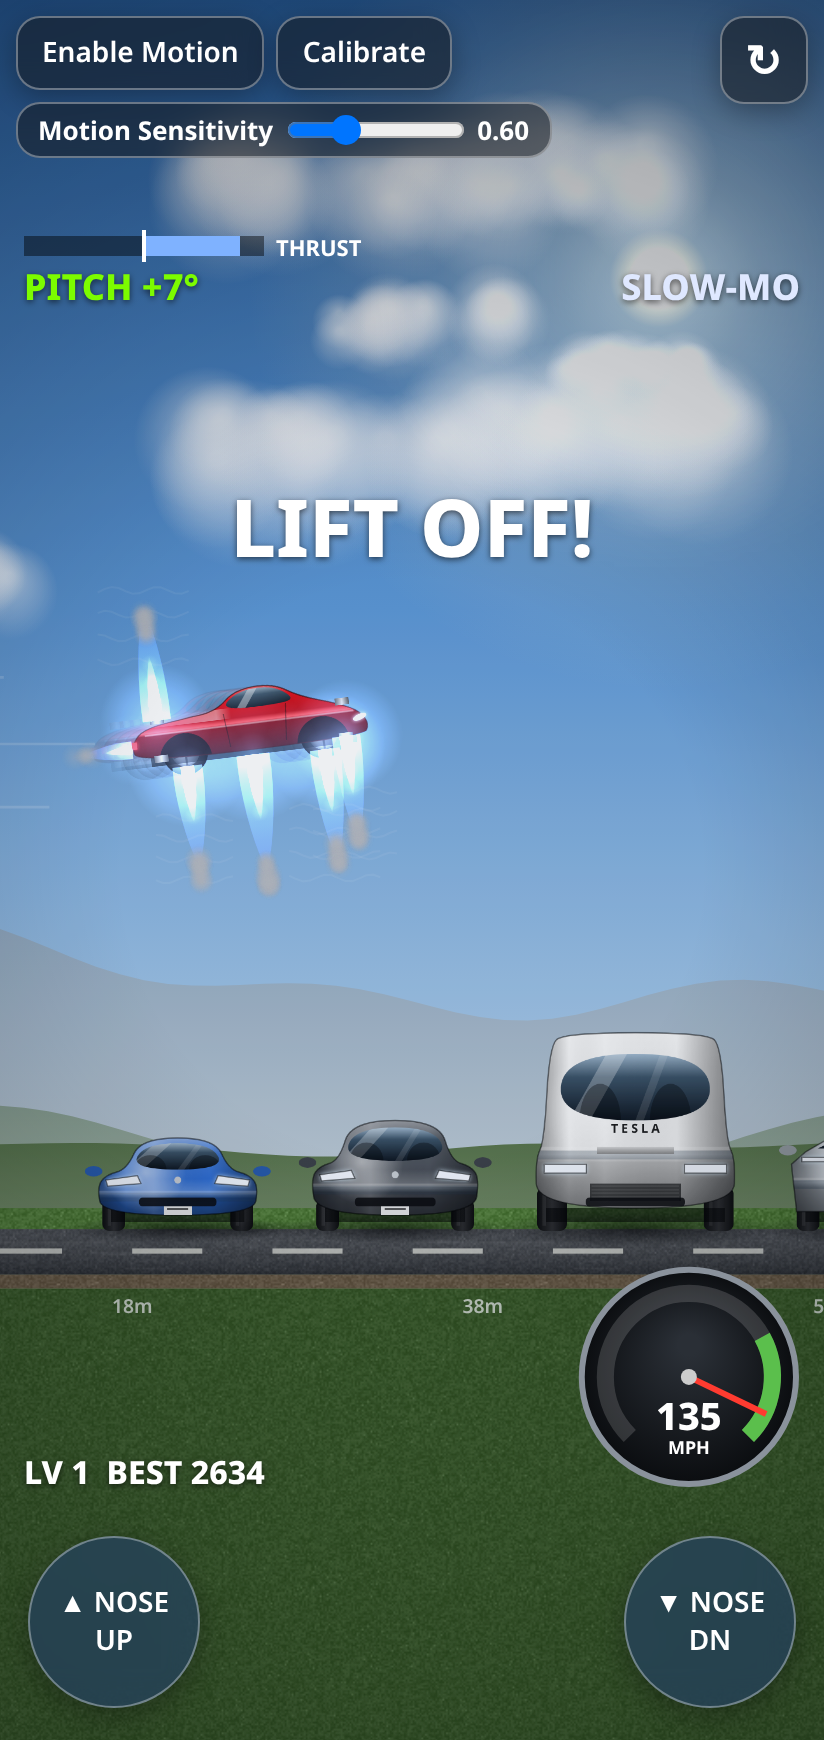
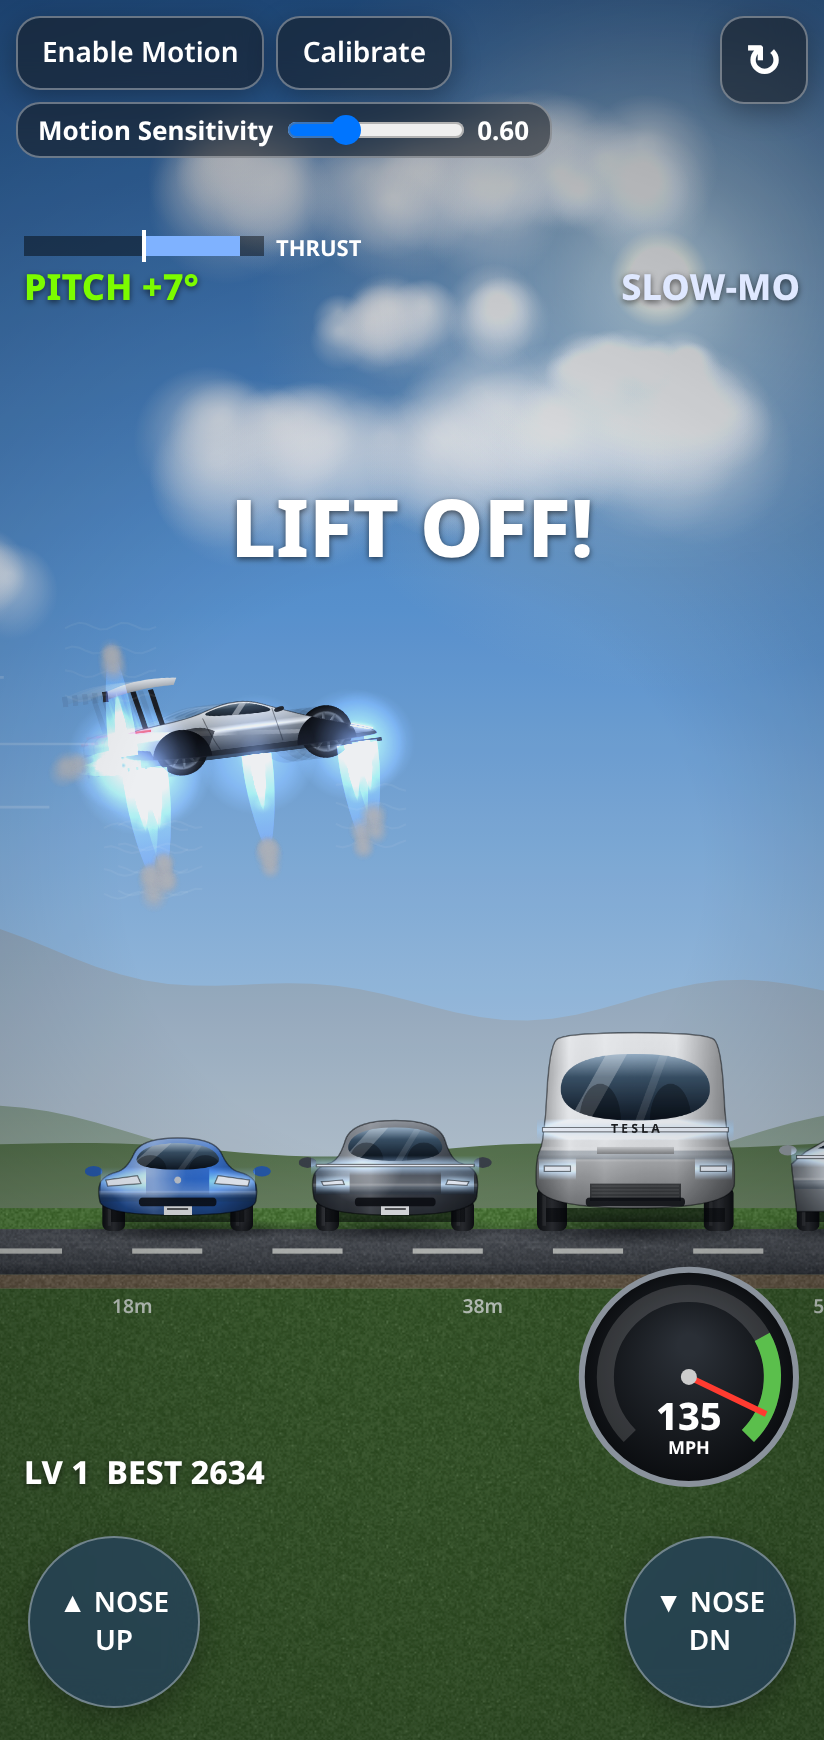
New Roadster look (silver wedge, rear wing, diffuser thrusters), fleet light bars

diff --git a/index.html b/index.html
@@ -275,15 +275,16 @@ function vehSprite(v){const key='v'+v.k;if(SPR[key])return SPR[key];
   // mirrors
   if(k!=='semi'){for(const s of [-1,1]){g.fillStyle=shade(col,-0.2);g.beginPath();g.ellipse(s<0?-2:w+2,glass[0][1]+1,5,3,0,0,7);g.fill();}}
   // headlights with glow
-  const lamp=(pts)=>{g.save();g.shadowColor='rgba(220,240,255,.95)';g.shadowBlur=8;g.fillStyle='#f4f8ff';g.beginPath();pts.forEach((p,i)=>i?g.lineTo(p[0],p[1]):g.moveTo(p[0],p[1]));g.closePath();g.fill();g.restore();
+  const lamp=(pts)=>{const xs=pts.map(p=>p[0]),ys=pts.map(p=>p[1]),x0=Math.min(...xs),x1=Math.max(...xs),y0=Math.min(...ys),y1=Math.max(...ys);g.save();g.globalCompositeOperation='lighter';const hg=g.createLinearGradient(0,y0-5,0,y1+5);hg.addColorStop(0,'rgba(150,200,255,0)');hg.addColorStop(.5,'rgba(170,215,255,.55)');hg.addColorStop(1,'rgba(150,200,255,0)');g.fillStyle=hg;g.fillRect(x0-3,y0-5,x1-x0+6,y1-y0+10);g.restore();g.save();g.shadowColor='rgba(210,235,255,1)';g.shadowBlur=12;g.fillStyle='#f4f8ff';g.beginPath();pts.forEach((p,i)=>i?g.lineTo(p[0],p[1]):g.moveTo(p[0],p[1]));g.closePath();g.fill();g.restore();
     g.strokeStyle='rgba(0,0,0,.5)';g.lineWidth=0.7;g.stroke();};
-  if(k==='cyber'){lamp([[6,-41],[w-6,-41],[w-6,-38.5],[6,-38.5]]);g.fillStyle='rgba(0,0,0,.35)';g.fillRect(m-12,-22,24,2);}
-  else if(k==='cab'){lamp([[10,-30],[w-10,-30],[w-10,-28],[10,-28]]);g.fillStyle='rgba(0,0,0,.4)';g.fillRect(m-0.5,-h+8,1,h-40);}
-  else if(k==='semi'){lamp([[7,-37],[31,-37],[31,-32],[7,-32]]);lamp([[w-31,-37],[w-7,-37],[w-7,-32],[w-31,-32]]);
+  if(k==='cyber'){lamp([[3,-42],[w-3,-42],[w-3,-40.3],[3,-40.3]]);g.fillStyle='rgba(0,0,0,.35)';g.fillRect(m-12,-22,24,2);}
+  else if(k==='cab'){lamp([[4,-33],[w-4,-33],[w-4,-31],[4,-31]]);g.fillStyle='rgba(0,0,0,.4)';g.fillRect(m-0.5,-h+8,1,h-40);}
+  else if(k==='semi'){lamp([[6,-58],[w-6,-58],[w-6,-55.5],[6,-55.5]]);lamp([[7,-36],[22,-36],[22,-33],[7,-33]]);lamp([[w-22,-36],[w-7,-36],[w-7,-33],[w-22,-33]]);
     const bg=g.createLinearGradient(0,-48,0,-42);bg.addColorStop(0,'#eee');bg.addColorStop(1,'#777');g.fillStyle=bg;g.fillRect(m-22,-47,44,4);
     g.fillStyle='#1b1b1b';g.font='700 7px system-ui';g.textAlign='center';g.fillText('T E S L A',m,-55);
     g.fillStyle='rgba(0,0,0,.6)';g.fillRect(m-26,-26,52,10);for(let i=0;i<5;i++){g.fillStyle='rgba(255,255,255,.08)';g.fillRect(m-25,-25+i*2,50,1);}}
-  else {const y=k==='my'?-31:-28;lamp([[5,y],[23,y-2.5],[25,y+2],[6,y+3.5]]);lamp([[w-5,y],[w-23,y-2.5],[w-25,y+2],[w-6,y+3.5]]);
+  else if(k==='my'){lamp([[3,-37],[w-3,-37],[w-3,-35.6],[3,-35.6]]);lamp([[6,-27],[18,-28],[19,-25.5],[7,-25]]);lamp([[w-6,-27],[w-18,-28],[w-19,-25.5],[w-7,-25]]);}
+  else {const y=-28;lamp([[5,y],[23,y-2.5],[25,y+2],[6,y+3.5]]);lamp([[w-5,y],[w-23,y-2.5],[w-25,y+2],[w-6,y+3.5]]);
     g.fillStyle='#c9ced4';g.beginPath();g.arc(m,y,2,0,7);g.fill();}
   // lower intake & plate
   g.fillStyle='rgba(8,8,10,.85)';g.beginPath();g.roundRect(m-w*0.24,-18,w*0.48,5,2);g.fill();
@@ -299,42 +300,64 @@ function drawVehicle(v){
   cx.restore();
 }
 // ----- Roadster side view (cached) -----
-function roadsterSprite(){if(SPR.rd)return SPR.rd;const PAD=20,Wd=140,Hd=56,c=mk((Wd+PAD*2)*RS,(Hd+PAD*2)*RS),g=c.getContext('2d');g.scale(RS,RS);g.translate(PAD+70,Hd+PAD-6);
-  const body=[[-66,-9],[-68,-20],[-60,-28],[-38,-31],[-18,-33],[-6,-44],[16,-45],[30,-36],[52,-29],[64,-23],[68,-15],[64,-9]];
-  // shadow under body
-  g.fillStyle='rgba(0,0,0,.6)';g.fillRect(-58,-12,118,6);
+function roadsterSprite(){if(SPR.rd)return SPR.rd;const PAD=24,Wd=150,Hd=70,c=mk((Wd+PAD*2)*RS,(Hd+PAD*2)*RS),g=c.getContext('2d');g.scale(RS,RS);g.translate(PAD+75,Hd+PAD-8);
+  // rear wing struts + wing (behind body)
+  g.fillStyle='#1a1c20';for(const x of [-60,-50]){g.beginPath();g.moveTo(x,-26);g.lineTo(x+3,-26);g.lineTo(x-2,-50);g.lineTo(x-5,-50);g.fill();}
+  const wg=g.createLinearGradient(0,-56,0,-47);wg.addColorStop(0,'#f2f4f6');wg.addColorStop(.5,'#b9bec4');wg.addColorStop(1,'#5d6268');
+  g.fillStyle=wg;g.beginPath();g.moveTo(-80,-51);g.quadraticCurveTo(-62,-58,-38,-55);g.lineTo(-40,-51);g.quadraticCurveTo(-60,-52,-79,-47);g.closePath();g.fill();
+  g.fillStyle='#2a2d33';g.fillRect(-81,-52,3,6);
+  // body: low wedge, rear at left
+  const body=[[-72,-8],[-73,-20],[-70,-27],[-52,-29],[-32,-31],[-14,-37],[2,-37],[16,-31],[34,-24],[56,-17],[71,-12],[72,-8]];
+  g.fillStyle='rgba(0,0,0,.6)';g.fillRect(-64,-12,128,6);
   smooth(g,body,1);g.save();g.clip();
-  const vg=g.createLinearGradient(0,-46,0,-6);vg.addColorStop(0,'#ff8a8f');vg.addColorStop(.18,'#e3141f');vg.addColorStop(.45,'#b80d16');vg.addColorStop(.52,'#f25058');vg.addColorStop(.56,'#7a0810');vg.addColorStop(1,'#2a0205');
-  g.fillStyle=vg;g.fillRect(-80,-50,160,50);
-  const sp=g.createLinearGradient(-60,0,60,0);sp.addColorStop(0,'rgba(255,255,255,0)');sp.addColorStop(.35,'rgba(255,255,255,.45)');sp.addColorStop(.42,'rgba(255,255,255,0)');sp.addColorStop(1,'rgba(255,255,255,0)');
-  g.fillStyle=sp;g.fillRect(-80,-34,160,6);
-  g.fillStyle='rgba(255,255,255,.35)';g.fillRect(-60,-24.5,120,1);
+  const vg=g.createLinearGradient(0,-38,0,-6);vg.addColorStop(0,'#ffffff');vg.addColorStop(.2,'#d9dde1');vg.addColorStop(.42,'#a9afb6');vg.addColorStop(.5,'#eef1f4');vg.addColorStop(.56,'#7d838a');vg.addColorStop(.8,'#3c4045');vg.addColorStop(1,'#16181b');
+  g.fillStyle=vg;g.fillRect(-80,-45,160,45);
+  // sky/env reflection streak along shoulder
+  const sp=g.createLinearGradient(-70,0,70,0);sp.addColorStop(0,'rgba(255,255,255,0)');sp.addColorStop(.3,'rgba(255,255,255,.7)');sp.addColorStop(.45,'rgba(255,255,255,0)');sp.addColorStop(.75,'rgba(255,255,255,.35)');sp.addColorStop(1,'rgba(255,255,255,0)');
+  g.fillStyle=sp;g.beginPath();g.moveTo(-70,-27);g.lineTo(70,-13);g.lineTo(70,-11);g.lineTo(-70,-24);g.fill();
+  // side intake sculpt behind door
+  g.fillStyle='rgba(20,22,26,.75)';g.beginPath();g.moveTo(-40,-24);g.quadraticCurveTo(-28,-27,-20,-22);g.lineTo(-24,-14);g.quadraticCurveTo(-34,-16,-42,-15);g.fill();
+  // dark lower sill
+  g.fillStyle='rgba(15,16,18,.85)';g.fillRect(-80,-11,160,6);
+  // rear diffuser (black) at tail bottom
+  g.fillStyle='#0d0e10';g.beginPath();g.moveTo(-74,-6);g.lineTo(-74,-18);g.lineTo(-58,-15);g.lineTo(-54,-6);g.fill();
   // wheel arches
-  g.fillStyle='rgba(0,0,0,.85)';g.beginPath();g.arc(-38,-8,15,Math.PI,0);g.arc(41,-8,15,Math.PI,0);g.fill();
+  g.fillStyle='#050506';g.beginPath();g.arc(-40,-8,17,Math.PI,0);g.arc(43,-8,17,Math.PI,0);g.fill();
   g.restore();
-  smooth(g,body,1);g.strokeStyle='rgba(40,0,0,.6)';g.lineWidth=0.7;g.stroke();
+  // thin red full-width rear light strip
+  g.save();g.shadowColor='#ff1a1a';g.shadowBlur=7;g.fillStyle='#ff2a2a';g.fillRect(-73.5,-24,4,1.6);g.fillRect(-70,-27.2,14,1.2);g.restore();
+  // diffuser nozzles (round, visible on rear face) — thruster origins
+  for(const y of [-9,-13.5]){const ng=g.createRadialGradient(-74,y,0.3,-74,y,2.6);ng.addColorStop(0,'#000');ng.addColorStop(.55,'#4a2a12');ng.addColorStop(.8,'#b8875a');ng.addColorStop(1,'#3a3a3a');g.fillStyle=ng;g.beginPath();g.ellipse(-74,y,1.6,2.4,0,0,7);g.fill();}
+  g.fillStyle='#1d1f22';for(let i=0;i<3;i++)g.fillRect(-72+i*5,-7,1.2,3); // diffuser fins
   // glass canopy
-  const gl=[[-16,-33],[-5,-43],[15,-44],[27,-36],[22,-33]];smooth(g,gl,1);g.save();g.clip();
-  const gg=g.createLinearGradient(0,-45,0,-32);gg.addColorStop(0,'#b5cde0');gg.addColorStop(.4,'#40586c');gg.addColorStop(1,'#0b1118');g.fillStyle=gg;g.fillRect(-20,-46,50,16);
-  g.fillStyle='rgba(255,255,255,.4)';g.beginPath();g.moveTo(-6,-33);g.lineTo(2,-44);g.lineTo(7,-44);g.lineTo(-1,-33);g.fill();g.restore();
-  // door line, handle
-  g.strokeStyle='rgba(0,0,0,.45)';g.lineWidth=0.6;g.beginPath();g.moveTo(-14,-31);g.lineTo(-12,-12);g.moveTo(22,-33);g.lineTo(20,-12);g.stroke();
-  // lights
-  g.save();g.shadowColor='#e6f2ff';g.shadowBlur=6;g.fillStyle='#f5faff';g.beginPath();g.ellipse(63,-20,4,1.6,-0.3,0,7);g.fill();g.shadowColor='#ff2030';g.fillStyle='#ff3b45';g.fillRect(-68,-21,3,4);g.restore();
-  // thruster nozzles
-  for(const [x,y] of [[54,-10],[54,-30],[-52,-10],[-52,-32]]){const ng=g.createLinearGradient(x-4,0,x+4,0);ng.addColorStop(0,'#555');ng.addColorStop(.5,'#ccc');ng.addColorStop(1,'#444');g.fillStyle=ng;g.fillRect(x-4,y-2,8,4);}
-  return SPR.rd={c,ox:-(PAD+70),oy:-(Hd+PAD-6),w:Wd+PAD*2,h:Hd+PAD*2};
+  const gl=[[-30,-31],[-13,-36],[2,-36],[16,-30],[6,-29]];smooth(g,gl,1);g.save();g.clip();
+  const gg=g.createLinearGradient(0,-38,0,-28);gg.addColorStop(0,'#aebfcc');gg.addColorStop(.45,'#2c3a46');gg.addColorStop(1,'#07090c');g.fillStyle=gg;g.fillRect(-32,-40,52,14);
+  g.fillStyle='rgba(255,255,255,.45)';g.beginPath();g.moveTo(-10,-29);g.lineTo(-4,-36);g.lineTo(0,-36);g.lineTo(-6,-29);g.fill();g.restore();
+  // door seam (butterfly door), mirror
+  g.strokeStyle='rgba(0,0,0,.4)';g.lineWidth=0.6;g.beginPath();g.moveTo(-26,-30);g.quadraticCurveTo(-22,-18,-18,-11);g.moveTo(14,-31);g.lineTo(18,-12);g.stroke();
+  g.fillStyle='#1b1d20';g.beginPath();g.ellipse(18,-30,3,1.4,-0.2,0,7);g.fill();
+  // headlight sliver at nose + front splitter
+  g.save();g.shadowColor='#e8f3ff';g.shadowBlur=6;g.fillStyle='#f6fbff';g.beginPath();g.moveTo(58,-17);g.lineTo(70,-13);g.lineTo(69,-12);g.lineTo(57,-15.6);g.fill();g.restore();
+  g.fillStyle='#111';g.fillRect(52,-7,22,2);
+  smooth(g,body,1);g.strokeStyle='rgba(20,20,24,.55)';g.lineWidth=0.6;g.stroke();
+  return SPR.rd={c,ox:-(PAD+75),oy:-(Hd+PAD-8),w:Wd+PAD*2,h:Hd+PAD*2};
 }
-function wheelSprite(){if(SPR.wh)return SPR.wh;const R=13,c=mk(R*2*RS+4,R*2*RS+4),g=c.getContext('2d');g.scale(RS,RS);g.translate(R+0.6,R+0.6);
-  const tg=g.createRadialGradient(-3,-3,2,0,0,R);tg.addColorStop(0,'#3a3a3c');tg.addColorStop(.7,'#141414');tg.addColorStop(1,'#050505');g.fillStyle=tg;g.beginPath();g.arc(0,0,R,0,7);g.fill();
-  const rg=g.createRadialGradient(-2,-2,1,0,0,R*0.62);rg.addColorStop(0,'#f2f4f6');rg.addColorStop(.6,'#9aa2aa');rg.addColorStop(1,'#4a5056');g.fillStyle=rg;g.beginPath();g.arc(0,0,R*0.62,0,7);g.fill();
-  g.strokeStyle='rgba(30,30,30,.7)';g.lineWidth=1.2;for(let i=0;i<5;i++){const a=i*Math.PI*2/5;g.beginPath();g.moveTo(Math.cos(a)*2.5,Math.sin(a)*2.5);g.lineTo(Math.cos(a)*R*0.58,Math.sin(a)*R*0.58);g.stroke();}
-  g.fillStyle='#222';g.beginPath();g.arc(0,0,2.2,0,7);g.fill();
-  return SPR.wh={c,s:(R*2*RS+4)/RS};}
+function wheelSprite(){if(SPR.wh)return SPR.wh;const R=15,c=mk(R*2*RS+6,R*2*RS+6),g=c.getContext('2d');g.scale(RS,RS);g.translate(R+1,R+1);
+  // low-profile tire
+  const tg=g.createRadialGradient(-3,-3,2,0,0,R);tg.addColorStop(0,'#2a2a2c');tg.addColorStop(.8,'#121213');tg.addColorStop(1,'#040404');g.fillStyle=tg;g.beginPath();g.arc(0,0,R,0,7);g.fill();
+  // deep-dish dark rim
+  const rr=R*0.78;let rg=g.createRadialGradient(0,0,1,0,0,rr);rg.addColorStop(0,'#0b0c0e');rg.addColorStop(.75,'#1c1f23');rg.addColorStop(.92,'#5b6168');rg.addColorStop(1,'#2a2d31');g.fillStyle=rg;g.beginPath();g.arc(0,0,rr,0,7);g.fill();
+  // multi-spoke (10 thin twisted spokes) with highlight edge
+  for(let i=0;i<10;i++){const a=i*Math.PI/5;g.save();g.rotate(a);const sg=g.createLinearGradient(0,-1,0,1);sg.addColorStop(0,'#6c737b');sg.addColorStop(1,'#25282c');g.fillStyle=sg;
+    g.beginPath();g.moveTo(2.5,-0.9);g.quadraticCurveTo(rr*0.55,-1.6,rr*0.93,-0.4);g.lineTo(rr*0.93,0.8);g.quadraticCurveTo(rr*0.55,0.2,2.5,0.9);g.fill();g.restore();}
+  // brake caliper glint
+  g.fillStyle='rgba(200,40,40,.7)';g.beginPath();g.arc(0,0,rr*0.62,-2.4,-1.7);g.arc(0,0,rr*0.5,-1.7,-2.4,true);g.fill();
+  g.fillStyle='#3d4247';g.beginPath();g.arc(0,0,2.6,0,7);g.fill();g.fillStyle='#9aa0a6';g.beginPath();g.arc(-0.6,-0.6,0.9,0,7);g.fill();
+  return SPR.wh={c,s:(R*2*RS+6)/RS};}
 let wheelRot=0;
 function drawRoadsterBody(alpha){
   const s=roadsterSprite(),wh=wheelSprite();cx.globalAlpha=alpha;
-  for(const wx of [-38,41]){cx.save();cx.translate(wx,-12);cx.rotate(wheelRot);cx.drawImage(wh.c,-wh.s/2,-wh.s/2,wh.s,wh.s);cx.restore();}
+  for(const wx of [-40,43]){cx.save();cx.translate(wx,-14);cx.rotate(wheelRot);cx.drawImage(wh.c,-wh.s/2,-wh.s/2,wh.s,wh.s);cx.restore();}
   cx.drawImage(s.c,s.ox,s.oy,s.w,s.h);cx.globalAlpha=1;
 }
 function drawRoadster(){
@@ -348,9 +371,9 @@ function drawRoadster(){
   // exhaust drawn in world space, additive
   if(state==='air'||DEMO==='air'){
     const mag=Math.min(1,Math.abs(inp));
-    if(mag>0.03){const up=inp>0;nozzle(54,up?-10:-30,up?1:-1,mag,t);nozzle(-52,up?-32:-10,up?-1:1,mag,t+3);}
-    if(car.burst>0){nozzle(-38,-4,1,car.burst*1.5,t+1);nozzle(41,-4,1,car.burst*1.5,t+2);nozzle(0,-6,1,car.burst*1.8,t+5);}
-    nozzle(-68,-17,0,0.22+0.06*Math.sin(t),t);
+    if(mag>0.03){const up=inp>0;/* rear diffuser nozzles + small front splitter jets */ nozzle(-73,up?-14:-8,up?-1:1,mag,t+3);nozzle(64,up?-6:-18,up?1:-1,mag*0.8,t);}
+    if(car.burst>0){nozzle(-66,-5,1,car.burst*1.7,t+1);nozzle(-58,-5,1,car.burst*1.5,t+4);nozzle(2,-6,1,car.burst*1.5,t+5);nozzle(56,-5,1,car.burst*1.3,t+2);}
+    nozzle(-75,-9,0,0.24+0.06*Math.sin(t),t);nozzle(-75,-13.5,0,0.22+0.06*Math.sin(t+1),t+2);
   }
 }
 function local2world(lx,ly){const c=Math.cos(car.a),s=Math.sin(car.a);// local y down (canvas); world y up
